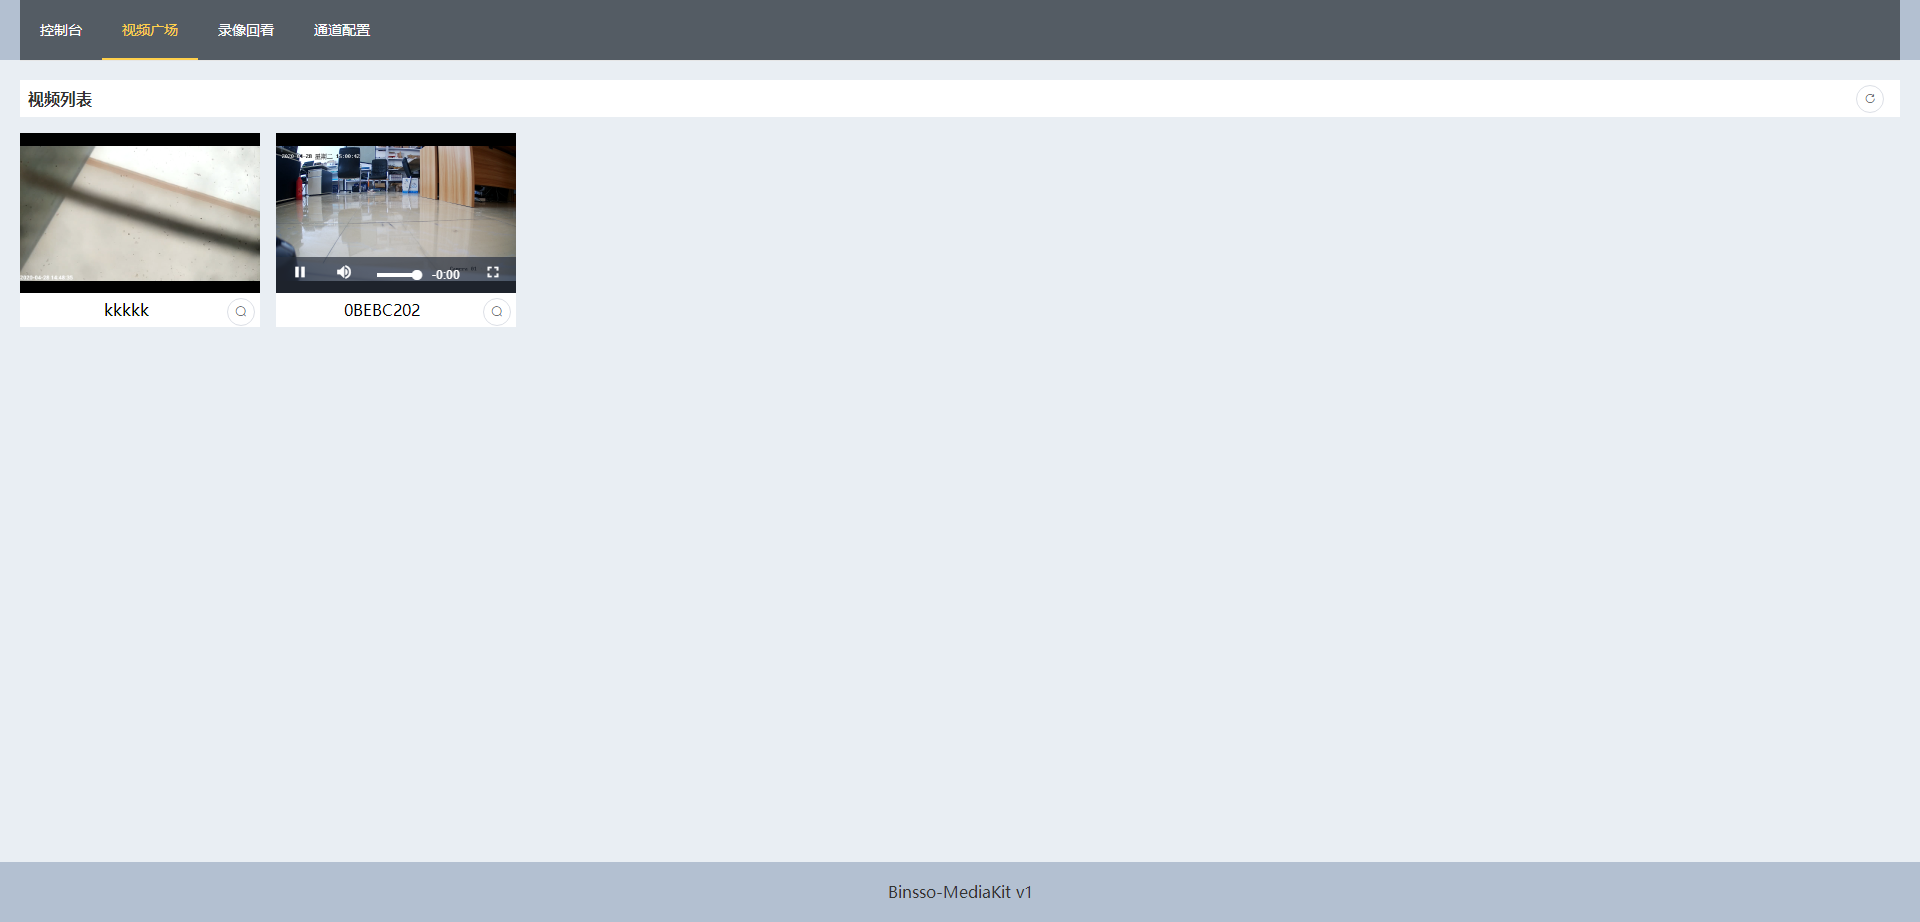
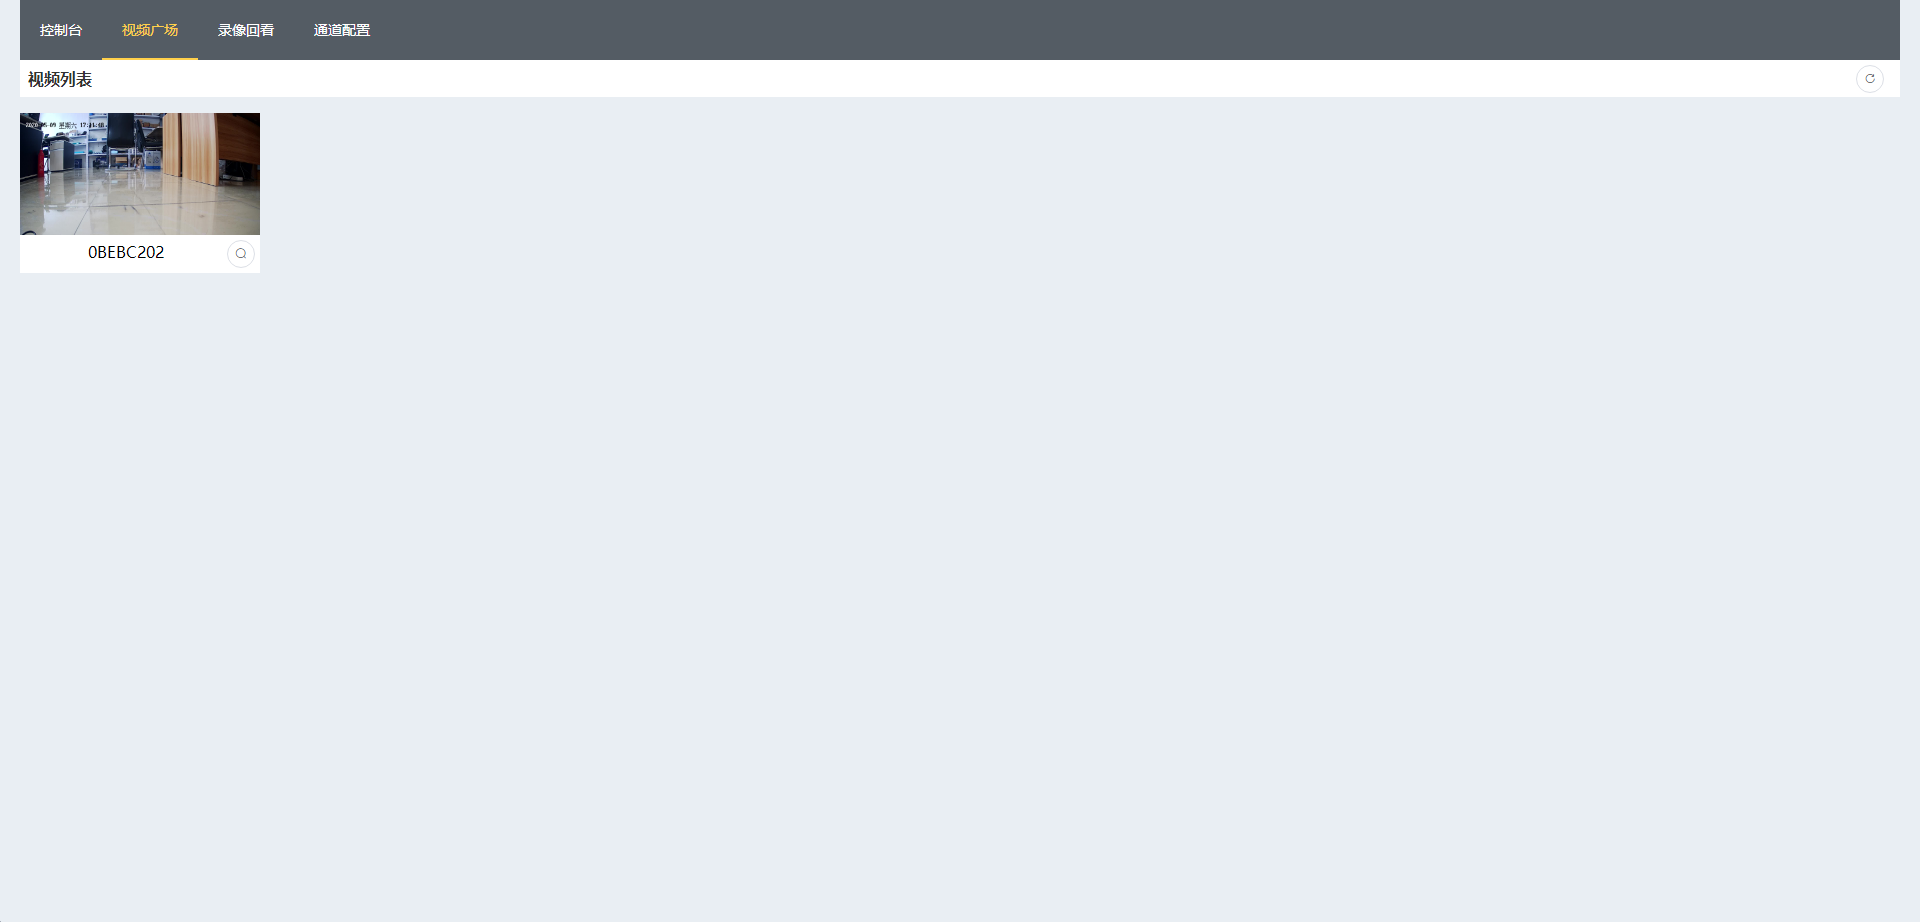
对接在线截图

Changed region(s): [[0.0, 0.9111, 1.0, 1.0], [0.0, 0.0, 0.2812, 0.3644], [0.9688, 0.0, 1.0, 0.0607]]

diff --git a/src/components/videoList.vue b/src/components/videoList.vue
@@ -8,7 +8,7 @@
 			<div class="video-item" v-for="(item, index) in videoList">
 				<!-- <video class="video-js vjs-default-skin vjs-big-play-centered" :id="genVideoId(index, item)" style="width: 15rem; height: 10rem;" controls>
 				</video> -->
-				<img src="../assets/play.png" @click="showVideo(item)" />
+				<img :src="getSnap(item)" @click="showVideo(item)" />
 				<div class="video-item-title">
 					{{ item.stream }}
 					<el-button icon="el-icon-search" circle size="mini" style="float: right;" @click="showVideoInfo(item)"></el-button>
@@ -40,7 +40,7 @@
 					<el-input v-model="getPlayerShared.sharedIframe" :disabled="true" v-on:click.native="copySharedInfo(getPlayerShared.sharedIframe)"></el-input>
 				</div>
 				<div style="display: flex; margin-bottom: 0.5rem; height: 2.5rem;">
-					<span style="width: 5rem; line-height: 2.5rem; text-align: right;">rtmp：</span>
+					<span style="width: 5rem; line-height: 2.5rem; text-align: right;">资源地址：</span>
 					<el-input v-model="getPlayerShared.sharedRtmp" :disabled="true" v-on:click.native="copySharedInfo(getPlayerShared.sharedRtmp)"></el-input>
 				</div>
 			</div>
@@ -73,7 +73,7 @@ export default {
 				sharedRtmp: this.videoUrl
 			};
 			return info;
-		}
+		},
 	},
 	mounted() {
 		this.initData();
@@ -151,7 +151,11 @@ export default {
 					});
 				}
 			});
-		}
+		},
+		getSnap: function(streamInfo) {
+			let videoUrl = this.$global.baseMediaUrl + streamInfo.app + '/' + streamInfo.stream+".flv";
+			return this.$global.genApiUrl('/getSnap') + '&timeout_sec=10&expire_sec=30&url='+videoUrl;
+		},
 	}
 };
 </script>
@@ -176,8 +180,8 @@ export default {
 	left: 0;
 	right: 0;
 	margin: auto;
-	width: 3rem;
-	height: 3rem;
+	width: 100%;
+	height: 100%;
 }
 .video-item-title {
 	position: absolute;

diff --git a/global.js b/global.js
@@ -1,6 +1,6 @@
-const host = 'http://localhost/index/api';
+const host = 'http://10.168.1.22/index/api';
 const secret = '035c73f7-bb6b-4889-a715-d9eb2d1925cc';
-const baseMediaUrl='ws://localhost/';
+const baseMediaUrl='http://10.168.1.22/';
 function genApiUrl(method){
 	return host+method+"?secret="+secret;
 }
